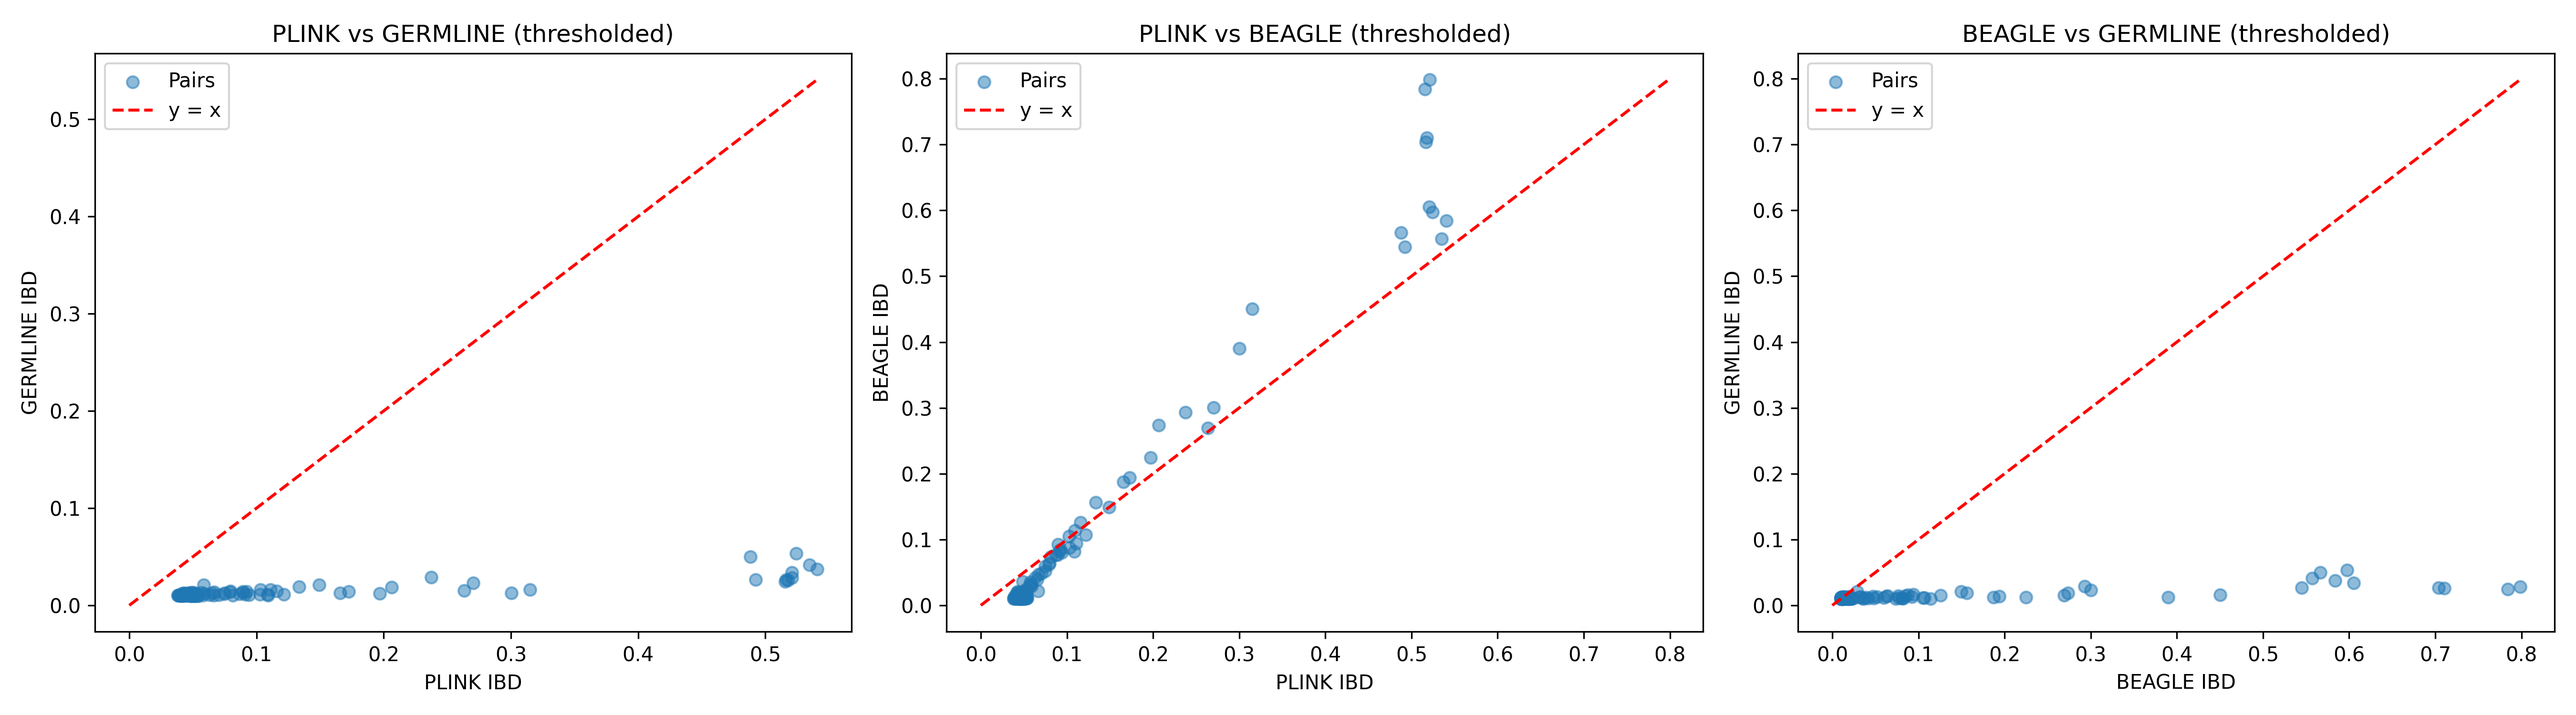
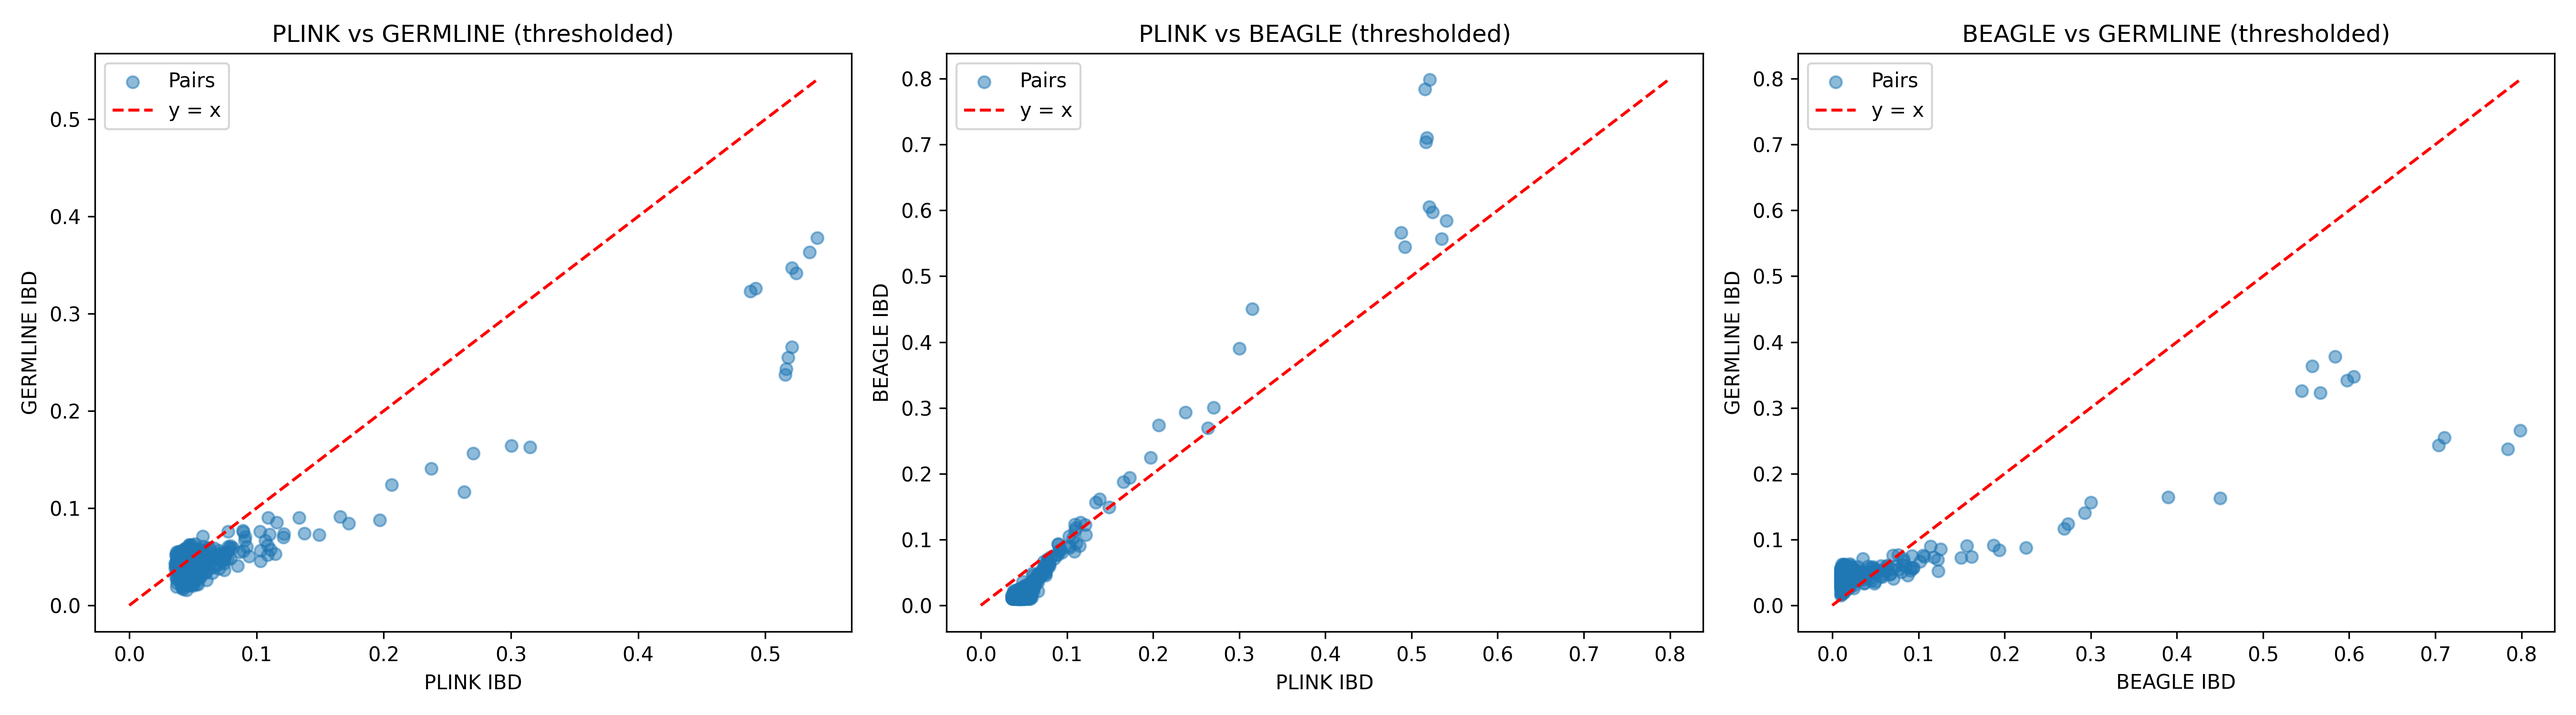
Germline runs independently on each chromosome

diff --git a/scripts/combine_ibd_results.py b/scripts/combine_ibd_results.py
@@ -4,7 +4,7 @@ from collections import defaultdict
 
 # -------- FILE PATHS --------
 plink_file = "results/plink_ibd.genome"
-germline_file = "results/lwk_ibd.match"
+germline_file = "data/lwk_ibd_allchr.match"
 beagle_file = "results/beagle/pairwise_pi_hat.csv"
 output_file = "results/combined_ibd_table.csv"
 
